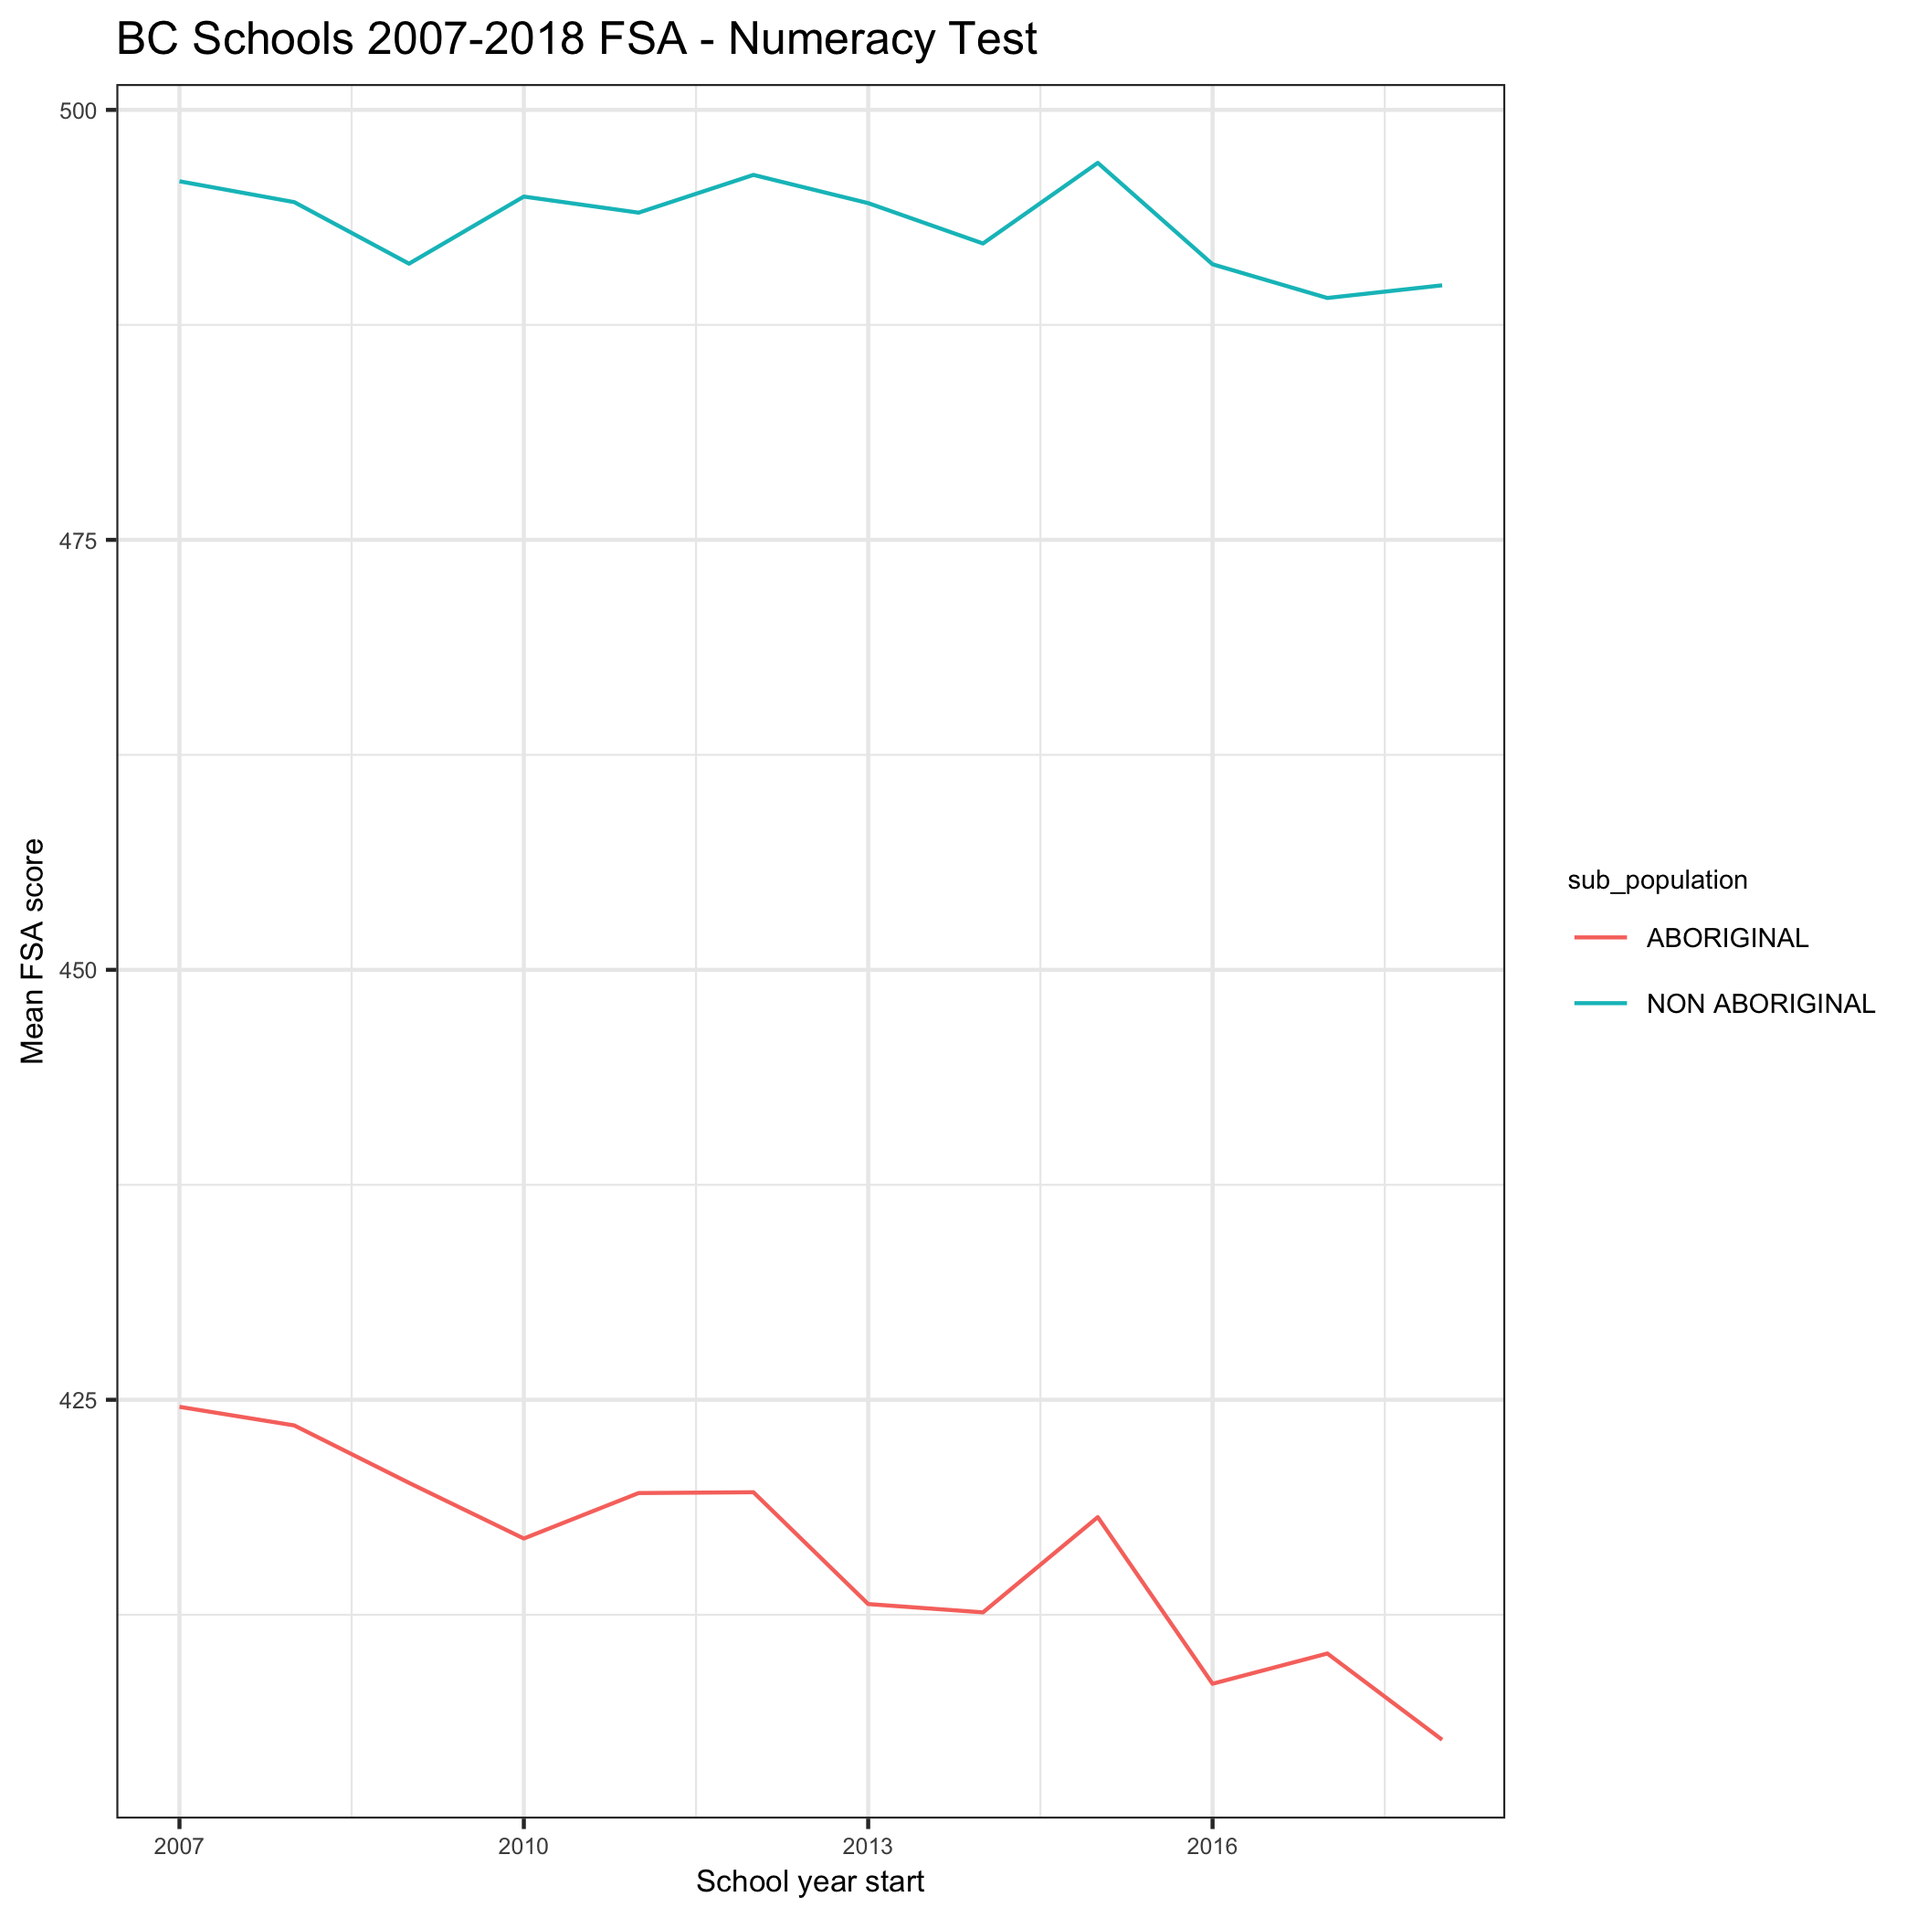
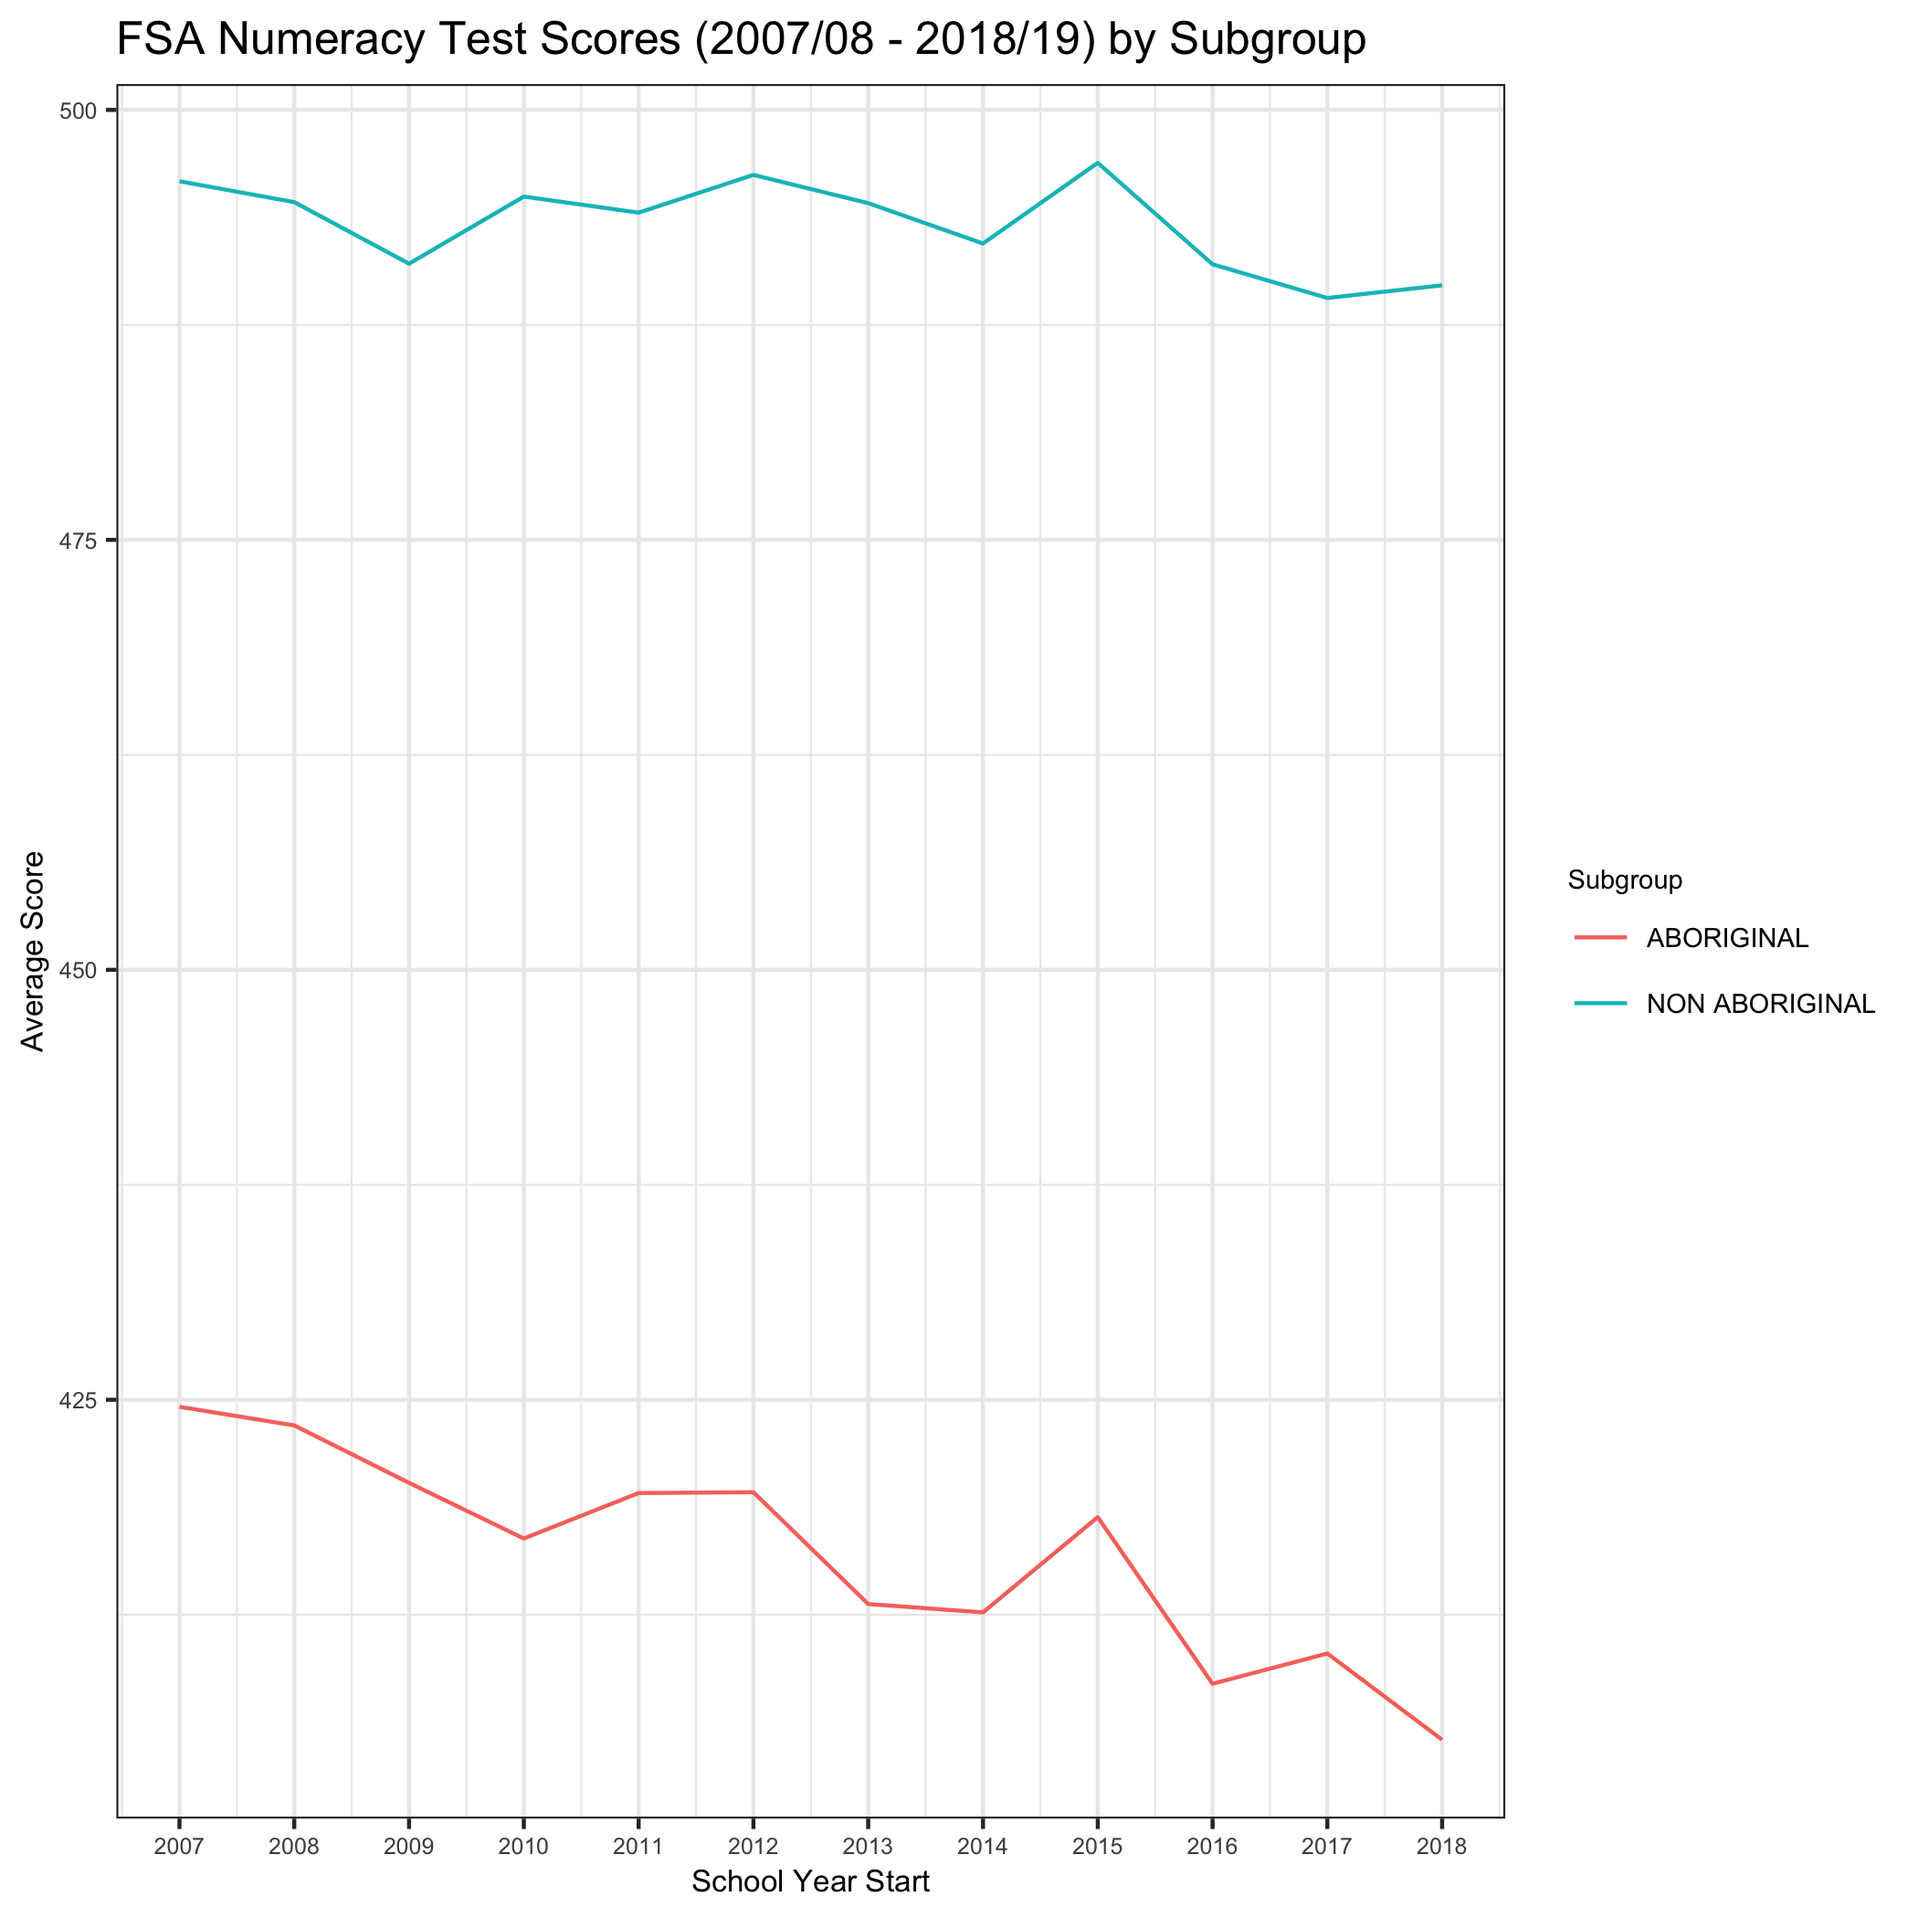
Adjustment of plots and fix typo in README&Report

diff --git a/doc/report.md b/doc/report.md
@@ -1,7 +1,7 @@
 Are There Differences in FSA Scores Between Subgroups?
 ================
 DSCI 522 Group 304: Anny Chih, Robert Pimentel, & Wenjiao Zou <br>
-2020-01-23 (updated: 2020-01-24)
+2020-01-23 (updated: 2020-01-25)
 
 # Summary
 
@@ -94,10 +94,25 @@ Definitions 2007/08-2016/17](https://catalogue.data.gov.bc.ca/dataset/bc-schools
 
 The R and Python programming languages (R Core Team 2019; Van Rossum and
 Drake 2009) and the following R and Python packages were used in this
-project: - tidyverse (Wickham 2017) - knitr (Xie 2014) - docopt (de
-Jonge 2018) - docoptpython (Keleshev 2014) - dplyr (Wickham et al. 2019)
-- repr (Angerer, Kluyver, and Schulz 2019) - pandas (Safia Abdalla 2019)
-- readr (Wickham, Hester, and Francois 2018) - infer (Bray et al. 2019)
+project:
+
+  - tidyverse (Wickham 2017)
+
+  - knitr (Xie 2014)
+
+  - docopt (de Jonge 2018)
+
+  - docoptpython (Keleshev 2014)
+
+  - dplyr (Wickham et al. 2019)
+
+  - repr (Angerer, Kluyver, and Schulz 2019)
+
+  - pandas (Safia Abdalla 2019)
+
+  - readr (Wickham, Hester, and Francois 2018)
+
+  - infer (Bray et al. 2019)
 
 T-tests were carried out to test the null hypothesis that there are no
 differences in the means of the aggregate FSA scores between students of
@@ -160,10 +175,18 @@ Fig: Boxplots of mean aggregate scores for Numeracy and Reading sections
 of the FSA exam by school type (BC Independent School / BC Public
 School)
 
-The following histograms were created by taking random samples of
-aggregate scores from both groups and plotting the distribution of their
-means.\[ROBERT - PLEASE FILL THIS SECTION
-OUT\]
+Data from both groups was filtered accordingly to observe the
+distribution of aggregate scores using histograms (bin size = 50). In
+addition, 95% confidence intervals of the mean aggregate scores were
+estimated by bootstrapping the aggregate scores for all students, for
+both groups, using a random sample (size = 50) and resampling with
+replacement 5000 times.
+
+Noticed that because the confidence intervals (difference between dash
+lines of same color) for both groups and skills do not overlap, we
+should expect a significant difference in mean aggregate scores for both
+skills between groups when we run a T-test
+statistics.
 
 <img src="../img/fig_pi_histogram_numeracy.png" width="50%" /><img src="../img/fig_pi_histogram_reading.png" width="50%" />
 
@@ -243,8 +266,12 @@ groups.
 Fig: Boxplots of mean aggregate scores for Numeracy and Reading sections
 of the FSA exam by subgroup (Aboriginal / Non Aboriginal)
 
-\[ROBERT - PLEASE FILL THIS SECTION
-OUT\]
+Histograms and confidence intervals for both FSA skills and groups
+(aboriginal vs non-aboriginal) were constructed in the same way as with
+the independent vs public shools for consistency purposes. Results on
+the plots also indicate that there is a significant difference in scores
+between the two student’s subgroups for both numeracy and reading
+skills.
 
 <img src="../img/fig_ana_histogram_numeracy.png" width="50%" /><img src="../img/fig_ana_histogram_reading.png" width="50%" />
 

diff --git a/README.md b/README.md
@@ -90,7 +90,9 @@ line/terminal from the root directory of this project:
       - dplyr=0.8.3
       - readr=1.3.1
       - infer=0.5.0
-      - repr=1.0.1 \# References
+      - repr=1.0.1
+
+# References
 
 <div id="refs" class="references">
 
